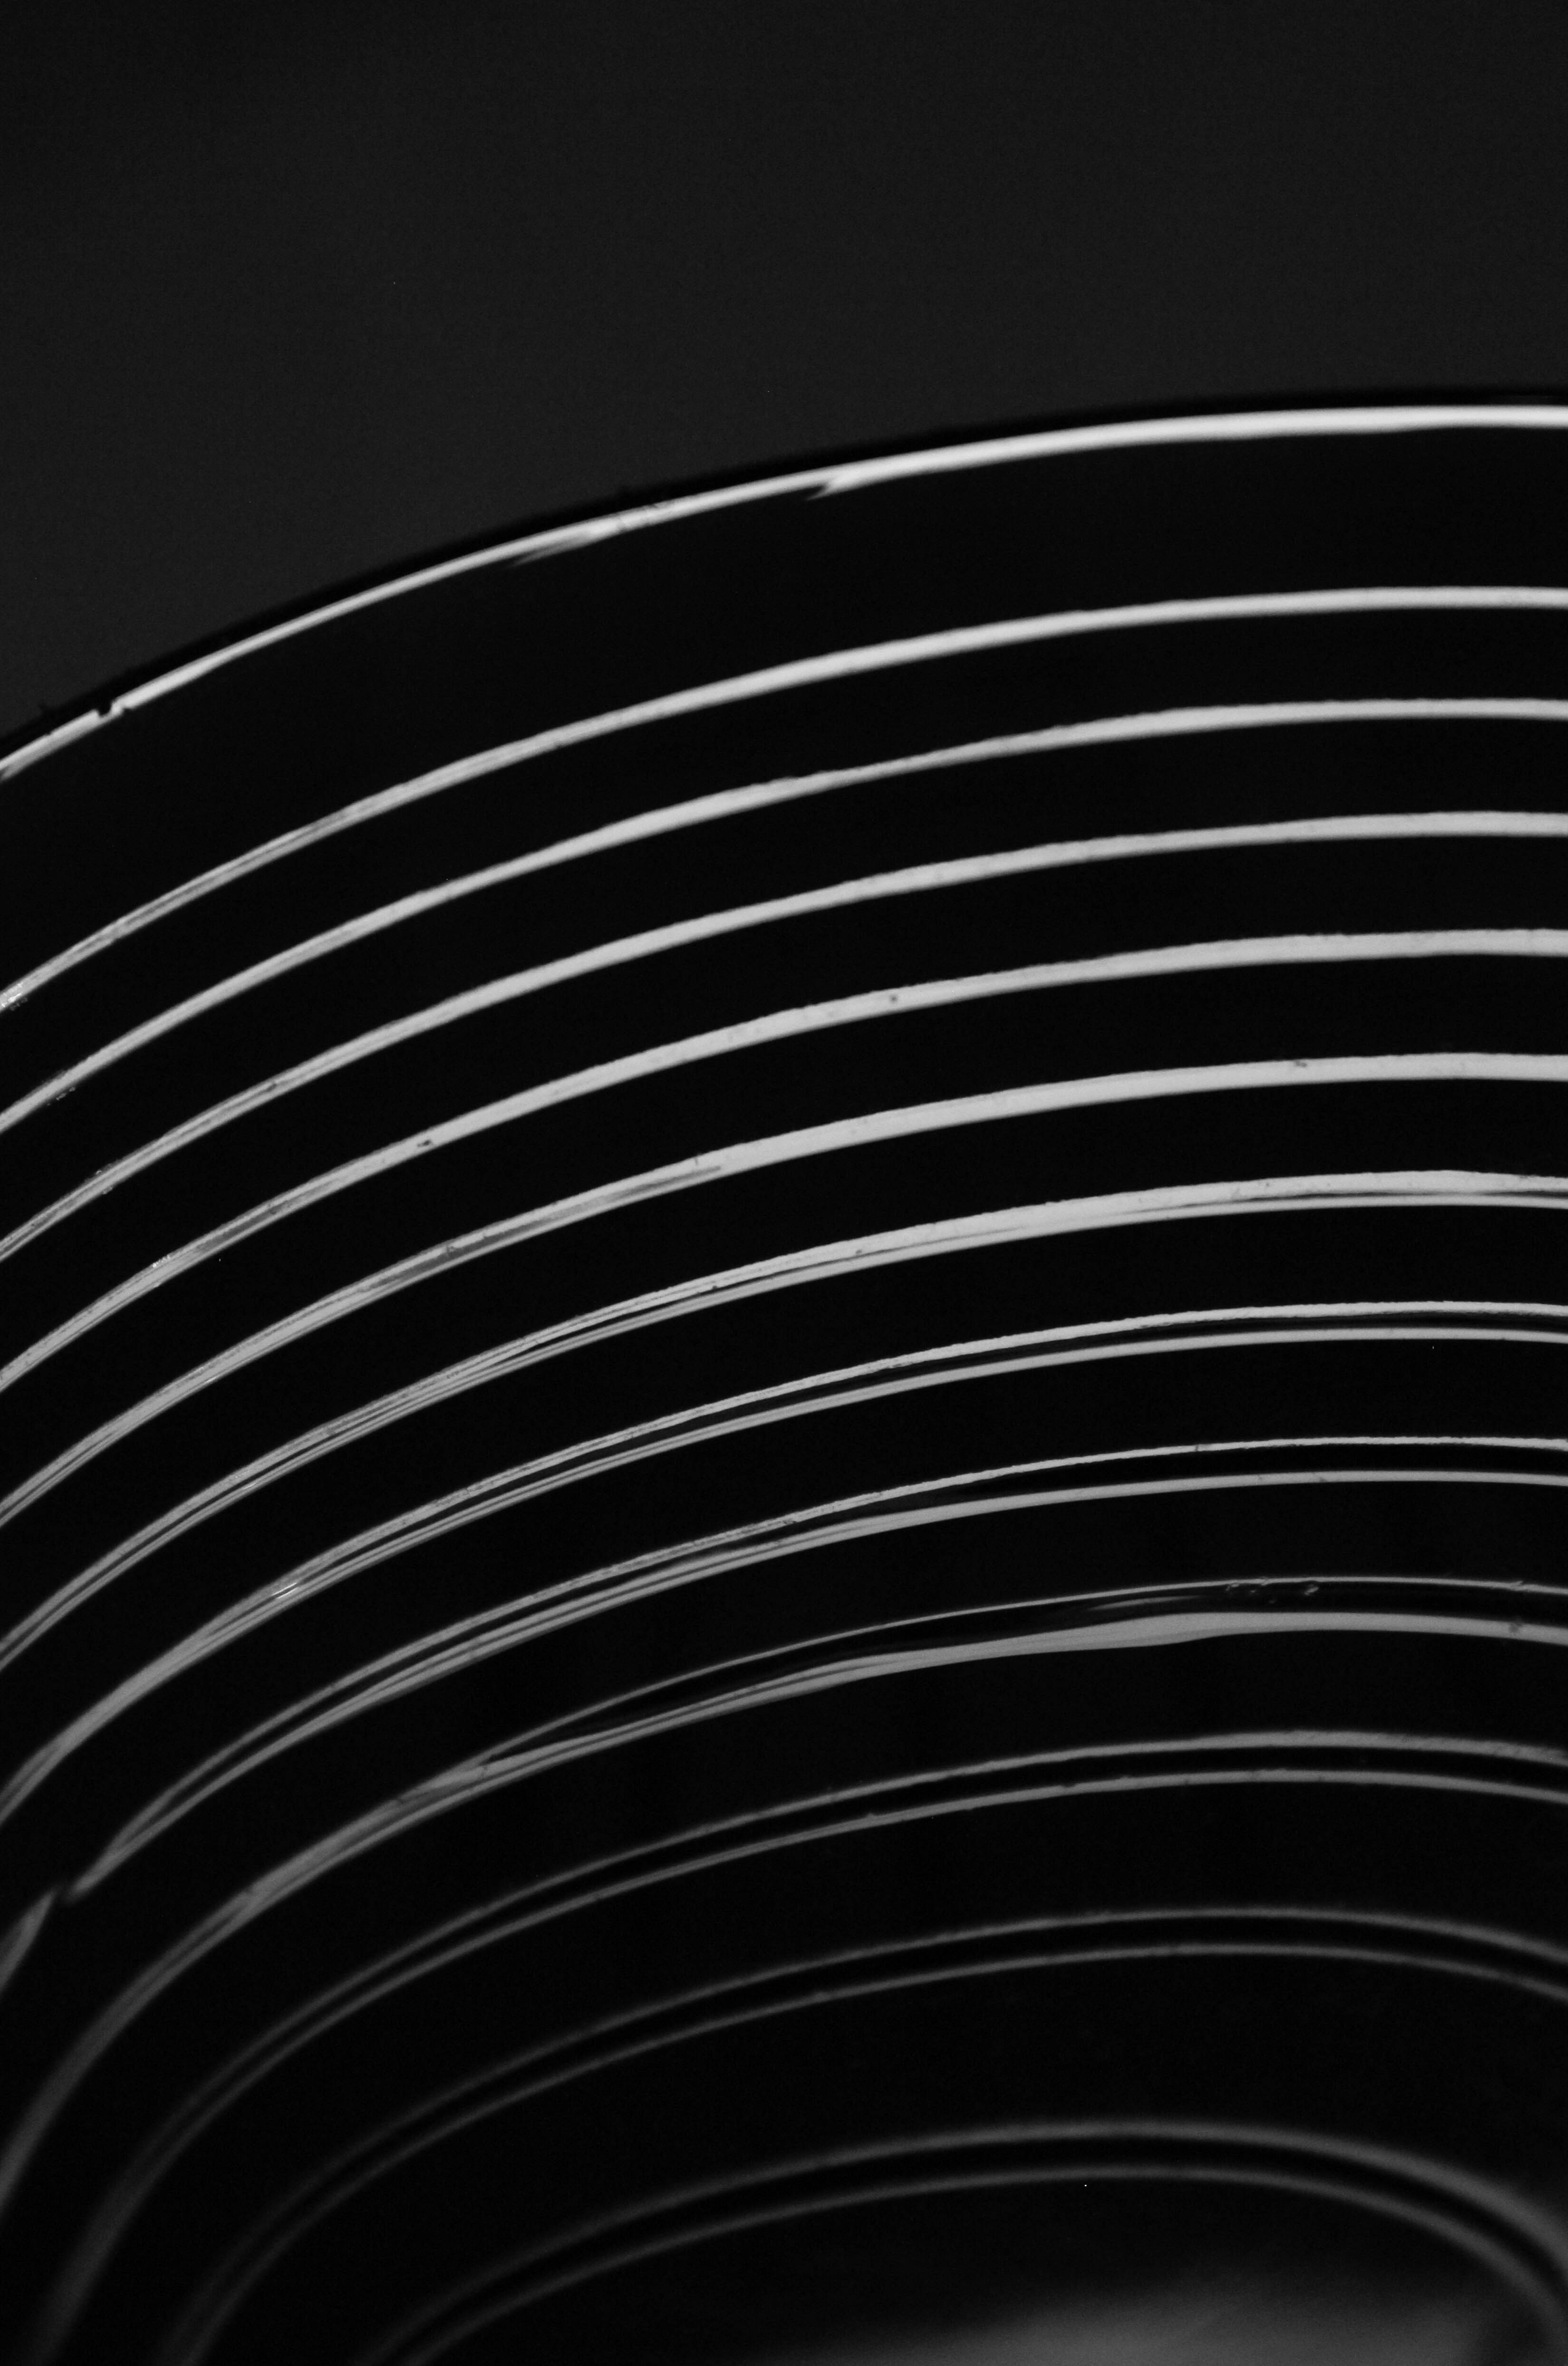
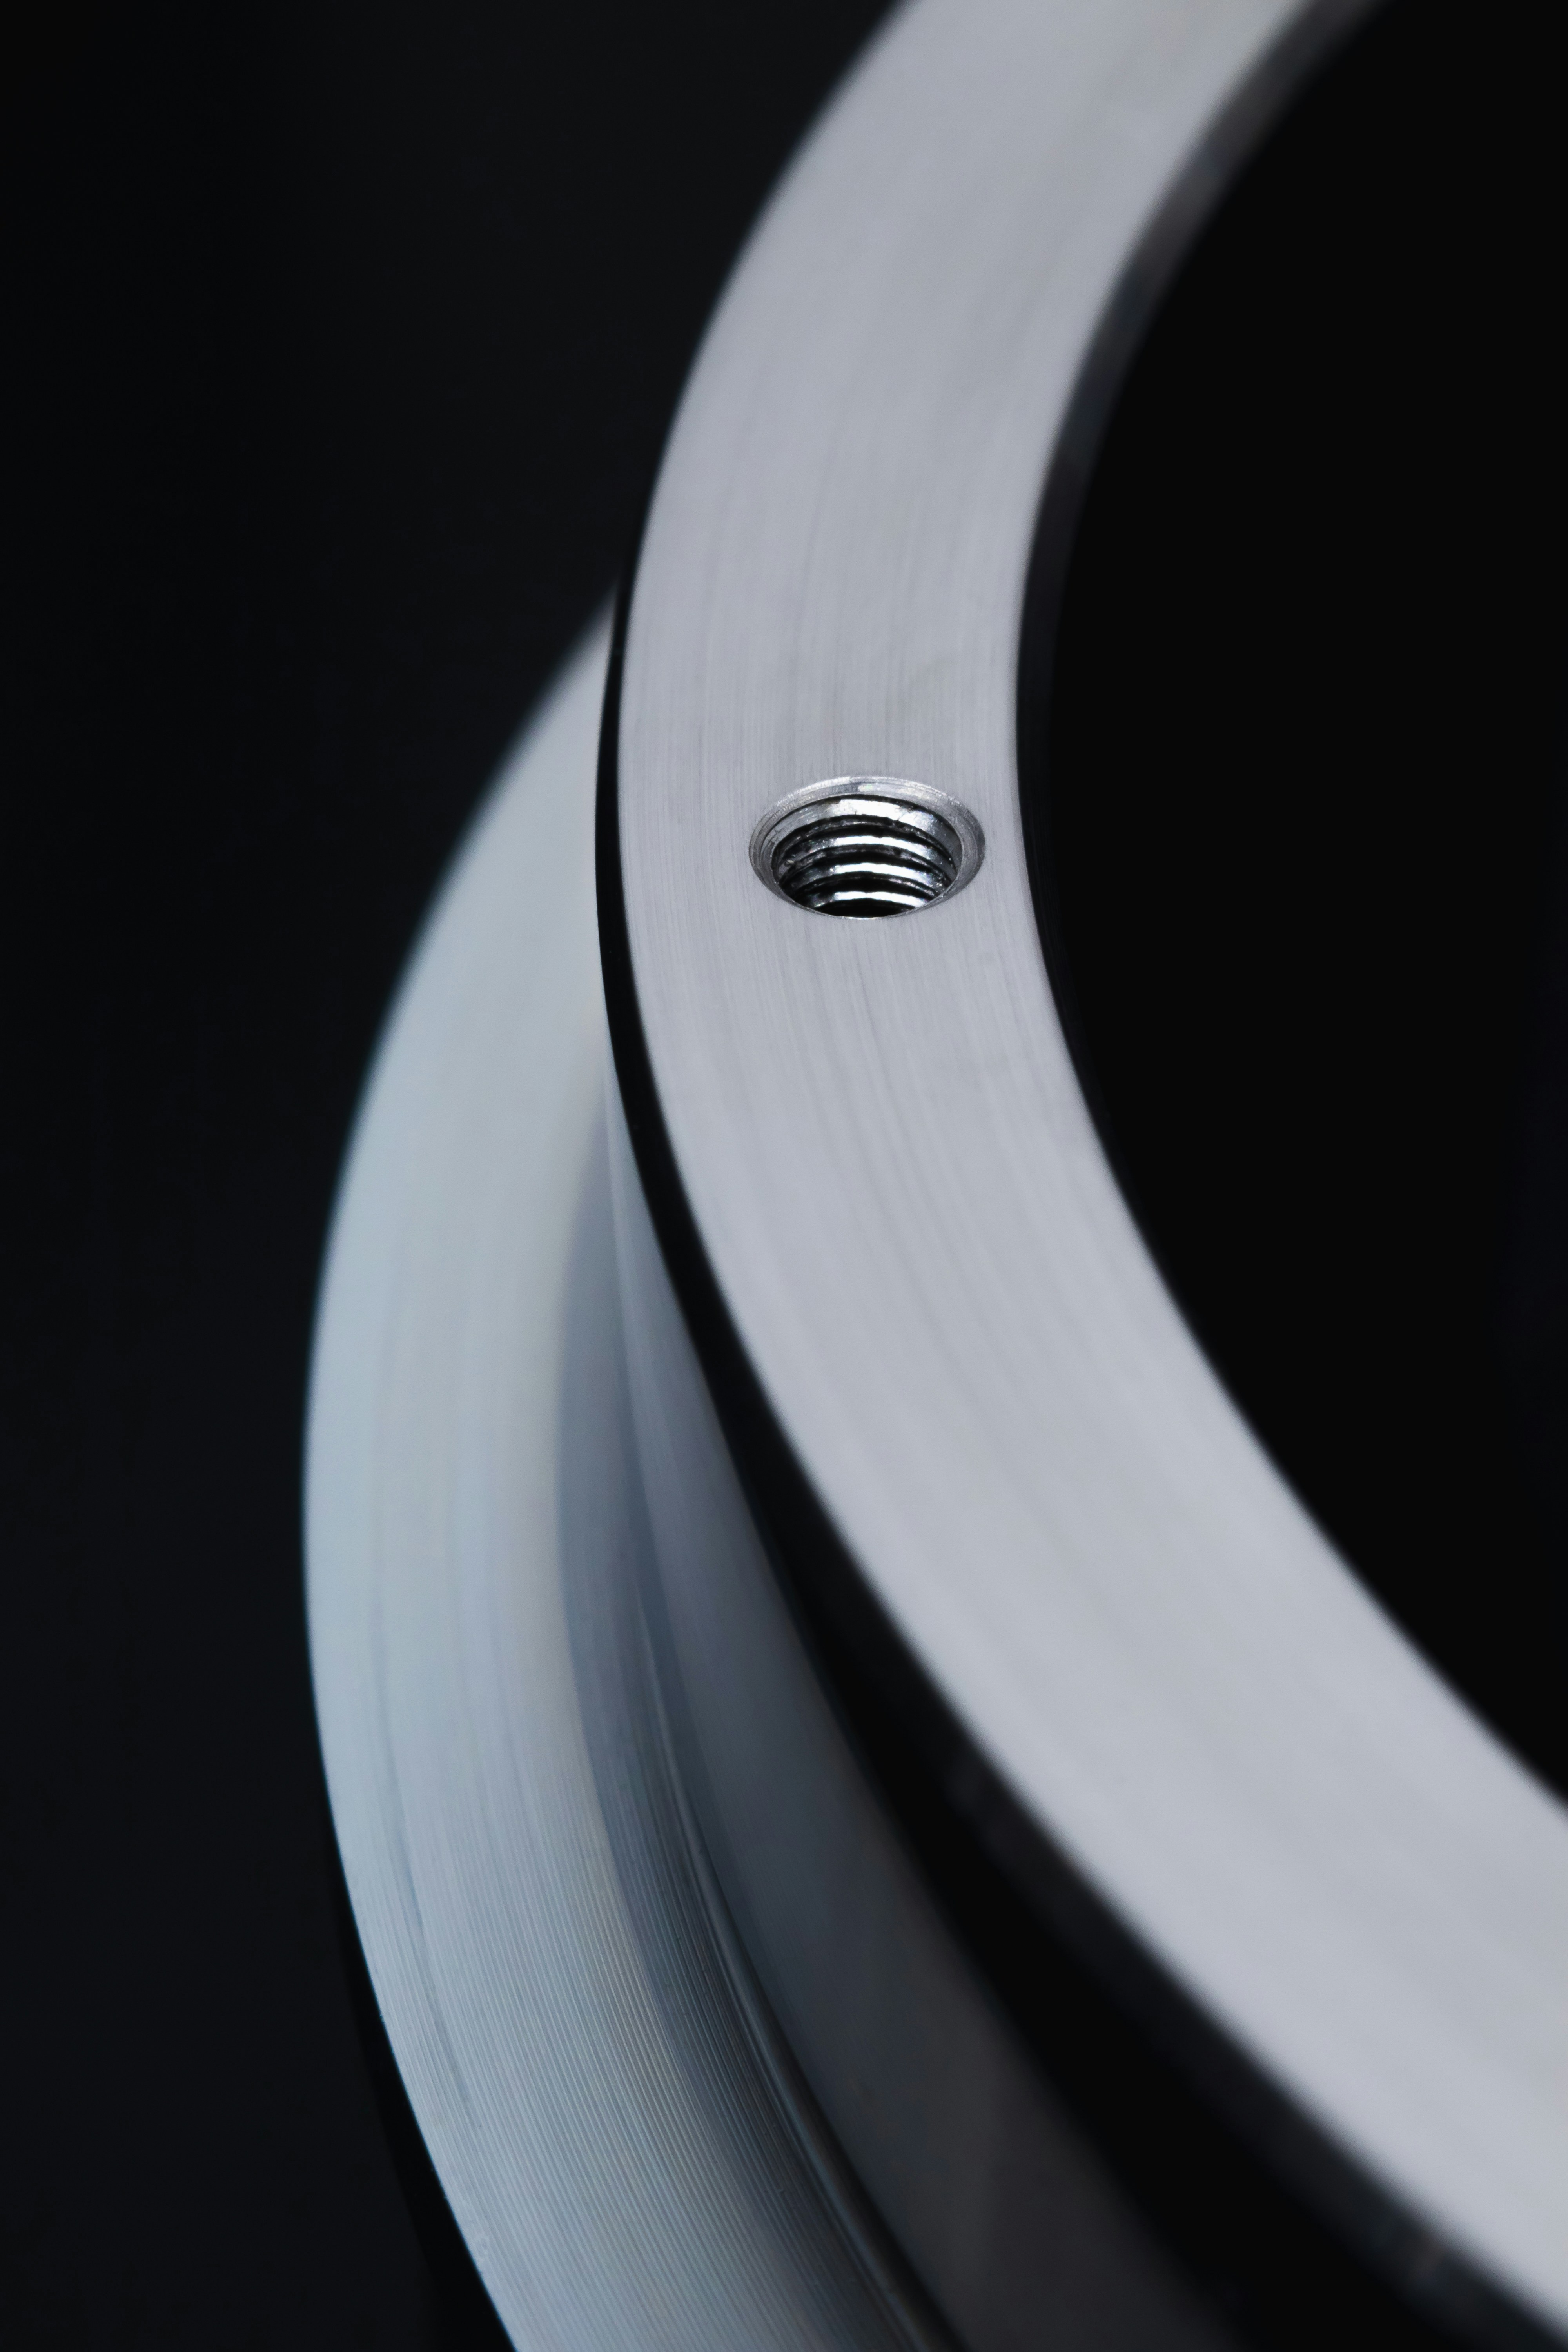
UI polish: remove separators, sync day/night toggles, swap material image
- Remove border-top on .lp-hero-bottom and .lp-suite (cleaner section transitions)
- Reduce padding-top on .lp-vision section
- Sync Nav + DialThemeToggle via MutationObserver — both buttons always reflect the same state
- Fix Nav not applying data-theme to body on mount (was causing desync on reload)
- Recalculate cadran-jour alignment offsets from actual PNG circle centers (dx -1.59%, dy 1.36%, scale 1.061)
- Replace wyp_img_01.jpg (brushed lines) with watch case macro photo

diff --git a/wyp-landing-nextjs/app/globals.css b/wyp-landing-nextjs/app/globals.css
@@ -591,7 +591,6 @@ body[data-theme="jour"] .lp-hero-watch::before {
   grid-template-columns: 1fr auto 1fr;
   align-items: end;
   gap: var(--s-5);
-  border-top: 1px solid rgba(245,245,245,0.18);
   padding-top: 18px;
 }
 .lp-hero-bottom .lp-meta-row { gap: var(--s-6); flex-wrap: nowrap; white-space: nowrap; }
@@ -651,6 +650,7 @@ body[data-theme="jour"] .lp-hero-watch::before {
 
 .lp-vision {
   border-bottom: 1px solid rgba(245,245,245,0.18);
+  padding-top: clamp(var(--s-7), 7vh, var(--s-8));
 }
 .lp-vision-body {
   display: grid;
@@ -894,9 +894,9 @@ body[data-theme="jour"] .lp-pf--dual .cadran-jour { opacity: 1; }
    the night dial. Scale + nudge it onto the night dial's center so the crossfade
    doesn't shift. Values derived from each PNG's measured circle center. */
 .lp-collab-art--dual .cadran-jour {
-  --cadran-jour-scale: 1.067;
-  --cadran-jour-dx: -1.79%;
-  --cadran-jour-dy: 1.47%;
+  --cadran-jour-scale: 1.061;
+  --cadran-jour-dx: -1.59%;
+  --cadran-jour-dy: 1.36%;
   transform:
     translate(calc(-50% + var(--cadran-jour-dx)), calc(-50% + var(--cadran-jour-dy)))
     scale(var(--cadran-jour-scale));
@@ -1022,7 +1022,6 @@ body[data-theme="jour"] .lp-dial-toggle:hover {
 .lp-suite {
   padding-top: clamp(var(--s-9), 12vh, var(--s-10));
   padding-bottom: clamp(var(--s-9), 12vh, var(--s-10));
-  border-top: 1px solid rgba(245,245,245,0.18);
   border-bottom: 1px solid rgba(245,245,245,0.18);
 }
 .lp-suite-inner {
@@ -1449,8 +1448,13 @@ body[data-theme="jour"] .lp-section--light .lp-horizon--light::after  { backgrou
   /* ── Vision (02) ───────────────────────────────────── */
   /* Half-moon icon to the right on mobile */
   .lp-vision-side .lp-vision-icon { align-self: flex-end; }
+  /* Tighten the dark space below the half-moon icon (was ~88px from section pad) */
+  .lp-vision { padding-bottom: var(--s-6); }
 
   /* ── Produit (03) — restore visible 3-image stack ─── */
+  /* Tighten top padding (closer to the dark/light seam) and bottom padding so it
+     matches the 20px side gutters of the image stack above. */
+  #produit { padding-top: var(--s-6); padding-bottom: var(--s-6); }
   /* Override desktop's 2-col grid placement so all figures span the single column */
   .lp-produit-grid { grid-template-columns: 1fr; gap: var(--s-4); }
   .lp-pf--hero,
@@ -1468,6 +1472,11 @@ body[data-theme="jour"] .lp-section--light .lp-horizon--light::after  { backgrou
   .lp-pf--hero { order: 3; }
 
   /* ── Collab (04) ───────────────────────────────────── */
+  /* Tighten the seam between collab and suite (both dark) — was 88 + 97 ≈ 185px gap */
+  #collab { padding-bottom: var(--s-8); }
+  #suite  { padding-top: var(--s-8); padding-bottom: var(--s-8); }
+  /* Same treatment for the suite→footer seam (was 97 + 96 ≈ 193px gap) */
+  .lp-footer { padding-top: var(--s-8); }
   /* Centre "One structure. Infinite universes." over the dial */
   #collab .lp-section-head { text-align: center; justify-items: center; }
   #collab .lp-section-title { text-align: center; }

diff --git a/wyp-landing-nextjs/components/Nav.jsx b/wyp-landing-nextjs/components/Nav.jsx
@@ -8,12 +8,21 @@ export default function Nav() {
 
   useEffect(() => {
     const saved = localStorage.getItem('wyp-theme') || 'nuit'
+    document.body.setAttribute('data-theme', saved)
     setTheme(saved)
+
+    const readTheme = () =>
+      document.body.getAttribute('data-theme') === 'jour' ? 'jour' : 'nuit'
+    const obs = new MutationObserver(() => setTheme(readTheme()))
+    obs.observe(document.body, { attributes: true, attributeFilter: ['data-theme'] })
 
     const onScroll = () => setScrolled(window.scrollY > 24)
     window.addEventListener('scroll', onScroll, { passive: true })
     onScroll()
-    return () => window.removeEventListener('scroll', onScroll)
+    return () => {
+      obs.disconnect()
+      window.removeEventListener('scroll', onScroll)
+    }
   }, [])
 
   const toggleTheme = () => {